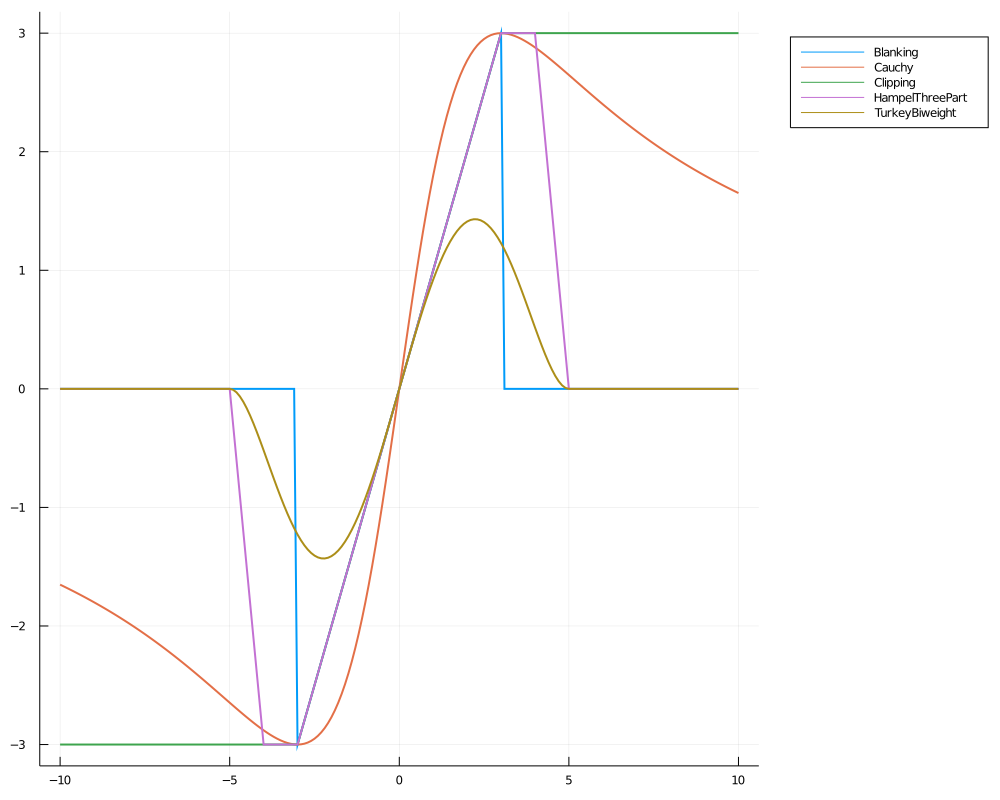
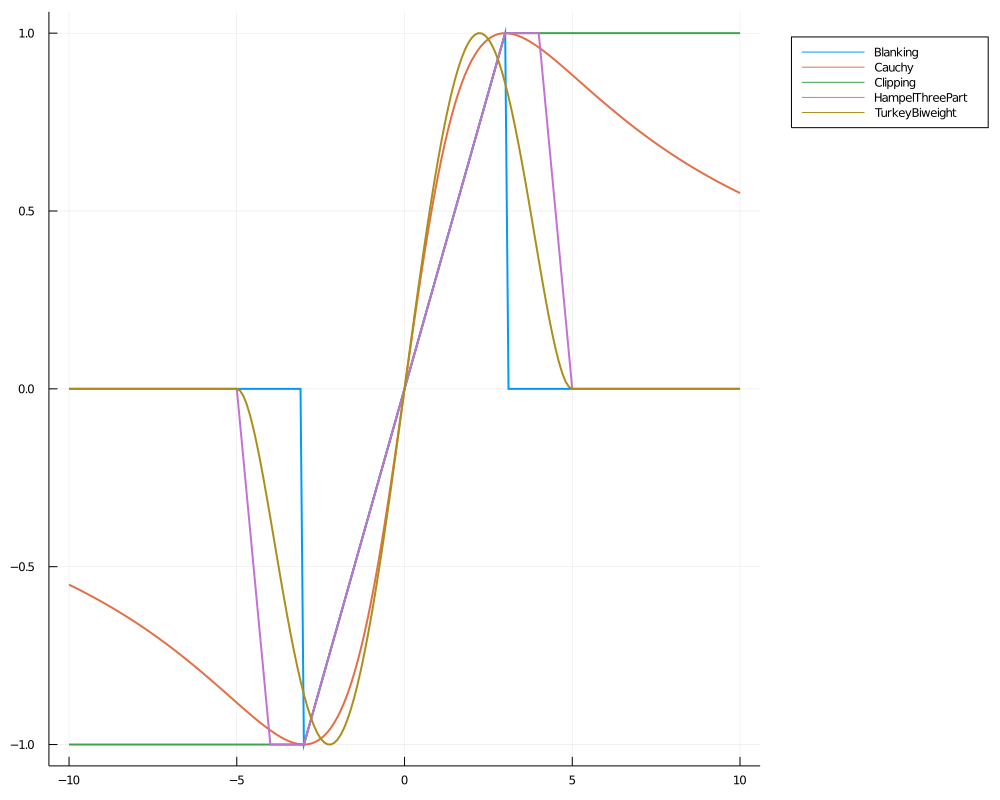
fix(*): remove minmaxrescale

diff --git a/README.md b/README.md
@@ -11,13 +11,13 @@ using MemorylessNonlinearities
 
 x = -10:0.1:10
 gs = [(Blanking, 3.0),
-      (Cauchy, (3.0, true)),
+      (Cauchy, 3.0),
       (Clipping, 3.0),
       (HampelThreePart, (3.0, 4.0, 5.0)),
       (TurkeyBiweight, 5.0)]
 p = plot(size=(1000, 800), legend=:outertopright)
 for (g, params) in gs
-    plot!(p, x, filt(g(params...), x); linewidth=2, label=string(g))
+    plot!(p, x, minmaxrescale(filt(g(params...), x), -1.0, 1.0); linewidth=2, label=string(g))
 end
 p
 ```
